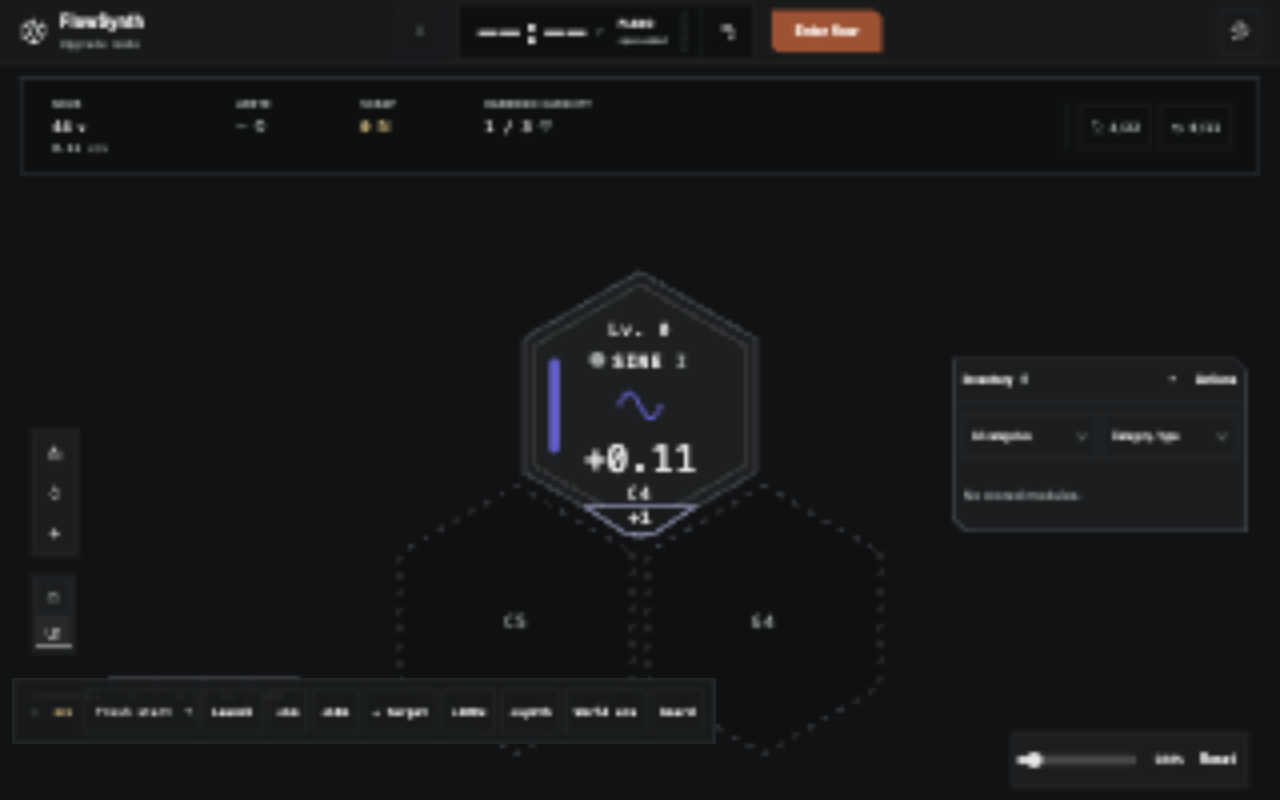
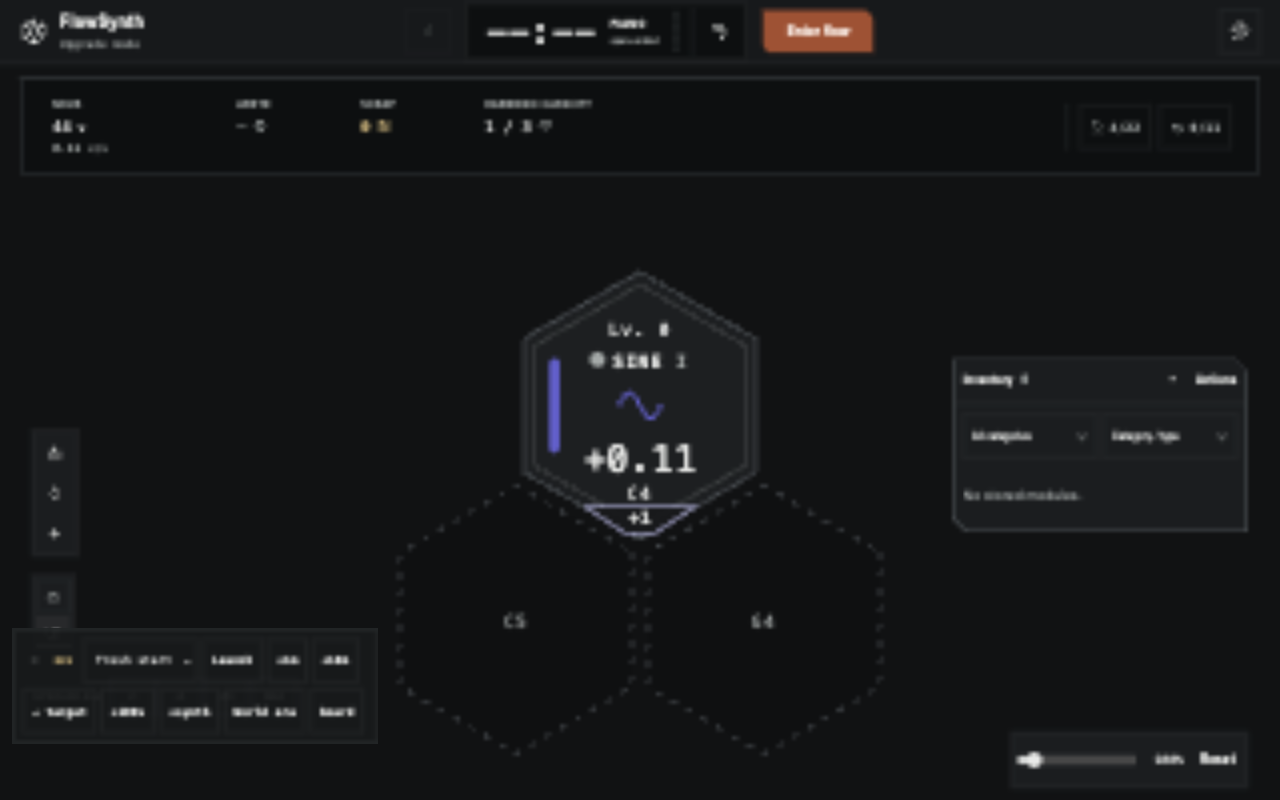
Recapture scenario suite evidence at the review-fix revision (#467)

diff --git a/docs/evidence/scenario-suite-2026-10-22/README.md b/docs/evidence/scenario-suite-2026-10-22/README.md
@@ -1,26 +1,26 @@
 # Scenario suite evidence — issue #467, 2026-10-22
 
-Captures taken from the verified checkout: worktree `/Users/thelemina/.t3/worktrees/flowsynth/t3-b480e3b2`, branch `t3/issue-467`, source commit `21ccf0504f40c0af1b1f341c368b9d0566603409`, clean source — the capture preflight accepted that commit before the first capture. URL: `http://localhost:5173/?dev=1`. The tab's origin carried an unrelated pre-existing development save from earlier evidence work on this port; that state serves as the "ordinary save" every capture must not disturb — a stronger isolation demonstration than a clean origin.
+Captures taken from the verified checkout: worktree `/Users/thelemina/.t3/worktrees/flowsynth/t3-b480e3b2`, branch `t3/issue-467`, source commit `68c0fae9a2eea392bf2a09bbaaa54aa006444590`, clean source — the capture preflight accepted that commit before the first capture. URL: `http://localhost:5173/?dev=1`. The tab's origin carried an unrelated pre-existing development save from earlier evidence work on this port; that state serves as the "ordinary save" every capture must not disturb — a stronger isolation demonstration than a clean origin. (An earlier pass at `21ccf05` was superseded by the review-fix commit; this pass recaptured every shot at the final revision.)
 
 ## Desktop (1280×800)
 
-1. `01-desktop-fresh-suite-entry.png` — a dev boot over the tab's ordinary save (44.9ν, two habits): the dev panel bottom-left with the grip, the suite entry (the `Fresh start`/`Focus` select + `Launch`), and the standing controls. The suite select renders the app's catalog with the active scenario preselected.
-2. `02-desktop-fresh-start-launch.png` — after selecting Fresh start and pressing `Launch` in the panel: the shipped opening board (one Sine at C4, 12ν grant, upgrade mode), the panel note reading `fresh ✓ 12ν grant · one synth · upgrade mode · initial state · isolated save` — the launch declares its situation and origin in place.
-3. `03-desktop-focus-launch-plan.png` — after launching Focus the same way, `devScenarioAssert()` (returned clean), and `showFocusFace("plan")`: the PLAN face over the Piano evidence setup (60-minute goal 25 logged minutes in, Engineer Level 3 with 2 tree points free, a partial practice-roll meter, 33 banked rolls, 912ν), the note reading `focus ✓ Piano · daily 60m · 25m logged · Engineer Lv 3 · constructed fixture · isolated save`.
+1. `01-desktop-fresh-suite-entry.png` — a dev boot over the tab's ordinary save: the dev panel bottom-left with the grip, the suite entry (the `Fresh start`/`Focus` select + `Launch`), and the standing controls. The suite select renders the app's catalog with the active scenario preselected.
+2. `02-desktop-fresh-start-launch.png` — after selecting Fresh start and pressing `Launch` in the panel: the shipped opening board (one Sine at C4, 12ν grant, upgrade mode), the panel note reading `Fresh start ✓ 12ν grant · one synth · upgrade mode · the shipped opening board, one synth, first upgrade mode · initial state · isolated save` — the launch declares its figures, situation, origin, and isolation in one standing line.
+3. `03-desktop-focus-launch-plan.png` — after launching Focus the same way, `devScenarioAssert()` (returned clean), and `showFocusFace("plan")`: the PLAN face over the Piano evidence setup (60-minute goal 25 logged minutes in, Engineer Level 3 with 2 tree points free, a partial practice-roll meter, banked rolls waiting), the note reading `Focus ✓ Piano · daily 60m · 25m logged · Engineer Lv 3 · session preparation with class development (#456) · constructed fixture · isolated save`.
 4. `04-desktop-stale-setup-failure.png` — after removing the scenario goal and re-running `devScenarioAssert()`: the named failure (`Focus scenario: expected the active goal on "Piano" — none found.`) in the panel's ✗ line. A relaunch restored the ✓ line (evaluate read).
 
 ## Phone (390×844, live viewport confirmed by in-page read)
 
-5. `05-phone-suite-entry-launch.png` — the panel wraps with the grip leading; the select and Launch sit at the 44px touch floor (evaluate read: select 44, launch 44, grip 28); the fresh-start note wraps onto its own rows (`fresh ✓ 12ν grant · one synth · upgrade mode · initial state · isolated save`). The opening board fits behind it; the thumb bar stays reachable.
+5. `05-phone-suite-entry-launch.png` — the panel wraps with the grip leading; the select and Launch sit at the 44px touch floor (evaluate read: select 44, launch 44, grip 28); the fresh-start declaration wraps onto its own rows beneath the controls. The opening board fits behind it; the thumb bar stays reachable.
 6. `06-phone-select-keyboard-focus.png` — keyboard disclosure: one Tab from the grip landed on `#dev-scenario` (evaluate read: `activeElement.id === "dev-scenario"`, `matches(":focus-visible") === true`) and the capture shows its clear rectangular focus ring.
 
 ## Behavior reads recorded during the pass (evaluate, not captures)
 
 - **Ordinary-save preservation:** after the fresh-start launch, a mutation + explicit `save()` + a `beforeunload` write left the ordinary slot byte-identical (`ordinaryUnchanged: true`).
-- **Reload drops the scenario:** navigating the tab again booted from the ordinary save (the pre-existing development state — two habits, 44.9ν), `devScenarioId` null. The scenario never reached the slot.
+- **Reload drops the scenario:** navigating the tab again booted from the ordinary save (the pre-existing development state), `devScenarioId` null. The scenario never reached the slot.
 - **Agent parity:** `app.devLaunchScenario("focus")` called directly on `window.__flowsynth` installed the Focus setup — the same method the panel's Launch button drives; `devScenarioAssert()` returned clean.
-- **Unknown id refused by name:** `app.devLaunchScenario("speedrun")` → `Dev: no scenario "speedrun" — the suite offers fresh-start, focus.`
-- **Recovery-proof:** with Focus installed, a newer unrelated save written to the ordinary slot and announced through a real `storage` event left the setup standing (habits `[Piano]`, nous 912) — the tab reads only its private slot.
+- **Unknown id refused by name:** `app.devLaunchScenario("nope")` → `Dev: no scenario "nope" — the suite offers fresh-start, focus.`
+- **Recovery-proof:** with Focus installed, a newer unrelated save written to the ordinary slot and announced through a real `storage` event left the setup standing (habits `[Piano]`) — the tab reads only its private slot.
 - **Suite entry drives the same command:** the captures' launches were driven through the panel's select + Launch control; the recorded reads show the same `devScenarioId`/note the direct method produces.
 
 ## Unavailable checks
@@ -35,8 +35,8 @@ Captures taken from the verified checkout: worktree `/Users/thelemina/.t3/worktr
 One mapping per acceptance criterion of issue #467, each to a named check, recorded evidence, or an explicit unavailable check. Automated names cite assertions that would fail if the behavior regressed; a green suite count proves none of this on its own.
 
 1. *One application-facing playtesting command boundary shared by scenario UI and agent access; prefer existing seams, only prefactor what this slice needs.* — Automated, `src/ui/app.scenarios.test.ts`: "the dev panel's suite entry > drives the same launch command the app method is" (the panel's select+Launch and the direct `devLaunchScenario` produce the same install and readout) and "the suite's catalog > declares the fresh start and the Focus setup…" (`devScenarios()` is the one catalog read; the boundary is `devLaunchScenario`/`devScenarioAssert` over the existing SharedSave/memorySaveStorage and focus-scenario seams — no parallel install path survived). Behavior reads above record the same commands running from `window.__flowsynth`.
-2. *Suite entry and scenario selection for fresh-start and existing Focus; each launch inspectable, playable, declaring situation and origin.* — Automated: the catalog case pins ids, names, situations, origins; "launching fresh start installs the shipped opening state…" and "launching Focus through the same boundary keeps the prior guarantees" pin each install's inspectable, playable state (upgrade mode, ordinary GameState). Manual: captures 1–3 (suite entry, both launches' declared note lines) and 5 (phone entry).
-3. *Assert before installation, detach to private in-memory storage before writes, rebuild on repeat launch, no shared-save adoption of unrelated state.* — Automated: "launching fresh start…"/"launching Focus…" (candidate built and asserted before the slot swap; explicit save + unload writes land only in the private slot), "repeating a launch rebuilds the setup without accumulating, either scenario", "shared-save recovery cannot replace a launched scenario with unrelated state" (storage-event and visibility-return recovery, with the pre-launch control read). Behavior reads repeat the recovery intrusion in the real browser.
+2. *Suite entry and scenario selection for fresh-start and existing Focus; each launch inspectable, playable, declaring situation and origin.* — Automated: the catalog case pins ids, names, situations, origins; "launching fresh start installs the shipped opening state…" and "launching Focus through the same boundary keeps the prior guarantees" pin each install's inspectable, playable state (upgrade mode, ordinary GameState) and its standing declaration line (figures, situation, origin, isolation). Manual: captures 1–3 (suite entry, both launches' declared note lines) and 5 (phone entry).
+3. *Assert before installation, detach to private in-memory storage before writes, rebuild on repeat launch, no shared-save adoption of unrelated state.* — Automated: "launching fresh start…"/"launching Focus…" (candidate built and asserted before the slot swap; explicit save + unload writes land only in the private slot), "repeating a launch rebuilds the setup without accumulating, either scenario", "shared-save recovery cannot replace a launched scenario with unrelated state" (storage-event and visibility-return recovery, with the pre-launch control read), "an unknown scenario id refuses by name and leaves the installed scenario standing". Behavior reads repeat the recovery intrusion in the real browser.
 4. *Ordinary-save preservation through explicit save, unload, reload, and storage/visibility recovery, using the existing fixture and Focus prior art.* — Automated: the two launch cases assert the ordinary slot byte-identical after explicit save and unload, and the reload case boots back to the ordinary save; the recovery case drives storage-event and visibility recovery on the application fixture. Manual: behavior reads (ordinary slot unchanged, reload returned the pre-existing save, intrusion left the setup standing).
 5. *Instrument standards and draggable-console contract; desktop and sensible phone entry evidence.* — Manual: captures 1–6 (square-cut select at the controls-sheet register, the ✓/✗ note as plain text on its own row, keyboard focus ring, the ADR-0050 grip unchanged). Automated: "the dev panel's suite entry > is absent on a normal instrument" and the unchanged drag-handle suite. Unavailable: reduced-motion emulation, greyscale pass, human-finger touch (above).
-6. *Parent stories 4–7 and the initial scenario/command portions of 3, 9–10, 30, 38.* — Story 4 (Focus stays available): the Focus descriptor delegates to `engine/focus-scenario.ts`, unchanged; "launching Focus through the same boundary keeps the prior guarantees". Story 5 (presets assert their intended situations): "fails clearly when the setup drifts, and relaunch restores it" + "asserts a fresh start by its own named facts". Story 6 (launches isolated from the ordinary save): criterion 3–4 rows. Story 7 (repeated launches rebuild): "repeating a launch rebuilds…". Story 3 portion (fresh-start preset): "launching fresh start installs the shipped opening state"; approaching-prestige/post-prestige/World presets are later tickets. Story 9 portion (constructed setups identified): origins in the catalog case and the note lines (captures 2–3). Story 10 portion (inspect or play a preset): the launches produce playable upgrade-mode state; capture 3 shows the PLAN face inspecting the Focus setup. Story 30 portion (same commands for agents): criterion 1 rows. Story 38 portion (phone entry/layout sensible): capture 5. **Recorded gaps (later tickets on this same boundary):** the remaining presets of story 3, scripted runs (story 10's remainder), the full inspection/action surface of story 30, and story 38's full suite layout beyond entry.
+6. *Parent stories 4–7 and the initial scenario/command portions of 3, 9–10, 30, and 38.* — Story 4 (Focus stays available): the Focus descriptor delegates to `engine/focus-scenario.ts`, unchanged; "launching Focus through the same boundary keeps the prior guarantees". Story 5 (presets assert their intended situations): "fails clearly when the setup drifts, and relaunch restores it" + "asserts a fresh start by its own named facts". Story 6 (launches isolated from the ordinary save): criteria 3–4 rows. Story 7 (repeated launches rebuild): "repeating a launch rebuilds…". Story 3 portion (fresh-start preset): "launching fresh start installs the shipped opening state"; approaching-prestige/post-prestige/World presets are later tickets. Story 9 portion (constructed setups identified): origins in the catalog case and the note lines (captures 2–3). Story 10 portion (inspect or play a preset): the launches produce playable upgrade-mode state; capture 3 shows the PLAN face inspecting the Focus setup. Story 30 portion (same commands for agents): criterion 1 rows — this slice's boundary carries the launch/assert/catalog commands; inspection and game-action command parity arrives with the later workflow tickets. Story 38 portion (phone entry/layout sensible): capture 5. **Recorded gaps (later tickets on this same boundary):** the remaining presets of story 3, scripted runs (story 10's remainder), the full inspection/action surface of story 30, and story 38's full suite layout beyond entry.
